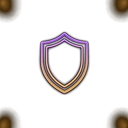
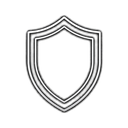
Switch menus to black theme and clean up modpanel
Replace gold/purple stickers and banners with black-and-silver neon assets, set embed color to black, and simplify /modpanel copy for a cleaner panel.

diff --git a/services/menu_banners.py b/services/menu_banners.py
@@ -36,22 +36,22 @@ PRESETS = {
     'modpanel': {
         'headline': 'МОДЕРАЦИЯ',
         'pill': 'Панель модерации · Hakumo',
-        'accent': (196, 140, 255),
-        'tint': (110, 55, 200),
+        'accent': (230, 230, 235),
+        'tint': (20, 20, 24),
         'bgs': ('help_bg.png', 'hakumo_log_bg.png', 'staff.jpg'),
     },
     'appeals': {
         'headline': 'АПЕЛЛЯЦИИ',
         'pill': 'Обжаловать наказание · Hakumo',
-        'accent': (210, 160, 255),
-        'tint': (125, 70, 210),
+        'accent': (230, 230, 235),
+        'tint': (18, 18, 22),
         'bgs': ('hakumo_log_bg.png', 'help_bg.png', 'staff.jpg'),
     },
     'staff': {
         'headline': 'НАБОРЫ',
         'pill': 'Стань частью команды HAKUMO',
-        'accent': (196, 140, 255),
-        'tint': (120, 60, 205),
+        'accent': (230, 230, 235),
+        'tint': (20, 20, 24),
         'bgs': ('staff.jpg', 'help_bg.png', 'hakumo_log_bg.png'),
     },
 }
@@ -65,17 +65,17 @@ _CUSTOM_NAMES = {
     'staff': ('staff_hakumo_banner.png', 'staff_banner_custom.png'),
 }
 
-# Стикеры действий → мягкий акцент + тип иконки (пастель Hakumo)
+# Стикеры действий → серебристый акцент (чёрная тема)
 STICKER_SPECS = {
-    'warn':       {'accent': (255, 200, 110), 'icon': 'warn'},
-    'mute':       {'accent': (140, 190, 255), 'icon': 'mute'},
-    'ban':        {'accent': (255, 130, 145), 'icon': 'ban'},
-    'clear':      {'accent': (120, 230, 200), 'icon': 'clear'},
-    'unban':      {'accent': (140, 235, 170), 'icon': 'unban'},
-    'appeal':     {'accent': (210, 165, 255), 'icon': 'appeal'},
-    'helper':     {'accent': (220, 185, 255), 'icon': 'helper'},
-    'moderator':  {'accent': (165, 175, 255), 'icon': 'mod'},
-    'heart':      {'accent': (255, 210, 235), 'icon': 'heart'},
+    'warn':       {'accent': (240, 240, 245), 'icon': 'warn'},
+    'mute':       {'accent': (220, 225, 235), 'icon': 'mute'},
+    'ban':        {'accent': (235, 235, 240), 'icon': 'ban'},
+    'clear':      {'accent': (230, 235, 240), 'icon': 'clear'},
+    'unban':      {'accent': (225, 230, 235), 'icon': 'unban'},
+    'appeal':     {'accent': (235, 235, 240), 'icon': 'appeal'},
+    'helper':     {'accent': (240, 240, 245), 'icon': 'helper'},
+    'moderator':  {'accent': (230, 230, 240), 'icon': 'mod'},
+    'heart':      {'accent': (245, 245, 250), 'icon': 'heart'},
 }
 
 

diff --git a/cogs/moderation.py b/cogs/moderation.py
@@ -2438,14 +2438,11 @@ class ModPanelView(discord.ui.View):
         if bits:
             desc = " · ".join(bits) + "\nМожно выбрать заново и в любом порядке."
         else:
-            desc = (
-                "Выберите участника и действие ниже.\n"
-                "Порядок любой — можно менять выбор.")
-        # тёмный фиолетово-золотой тон под баннер HAKUMO
+            desc = "Выберите участника и действие ниже."
         e = discord.Embed(
             title="Панель модерации",
             description=desc,
-            color=0x1E1430,
+            color=0x000000,
         )
         e.set_author(name="HAKUMO")
         icon = getattr(getattr(guild, 'icon', None), 'url', None)

diff --git a/cogs/appeals.py b/cogs/appeals.py
@@ -1278,8 +1278,9 @@ class Appeals(commands.Cog):
                 'расскажите свою версию.\n\n'
                 'Для вашей апелляции создастся отдельный тред — '
                 'модераторы ответят прямо в нём.'),
-            color=0x1A1428,
+            color=0x000000,
             timestamp=datetime.now(UTC))
+        embed.set_author(name='HAKUMO')
         embed.set_image(url=f'attachment://{bname}')
         embed.set_footer(text=f'{guild.name} · Hakumo · апелляции',
                          icon_url=guild.icon.url if guild.icon else None)

diff --git a/tests/test_menu_banners.py b/tests/test_menu_banners.py
@@ -48,8 +48,8 @@ view = ModPanelView(None, None, list(MODPANEL_ACTIONS))
 embed, banner = view.panel_payload(None)
 check(embed.image.url and 'attachment://' in embed.image.url,
       f'embed image attachment: {embed.image.url}')
-check(embed.color and embed.color.value == 0x1E1430,
-      f'тёмный цвет эмбеда ({embed.color.value:#x})')
+check(embed.color and embed.color.value == 0x000000,
+      f'чёрный цвет эмбеда ({embed.color.value:#x})')
 check(getattr(embed.author, 'name', None) == 'HAKUMO' or
       (embed.author and embed.author.name == 'HAKUMO'),
       f'author HAKUMO: {embed.author}')
